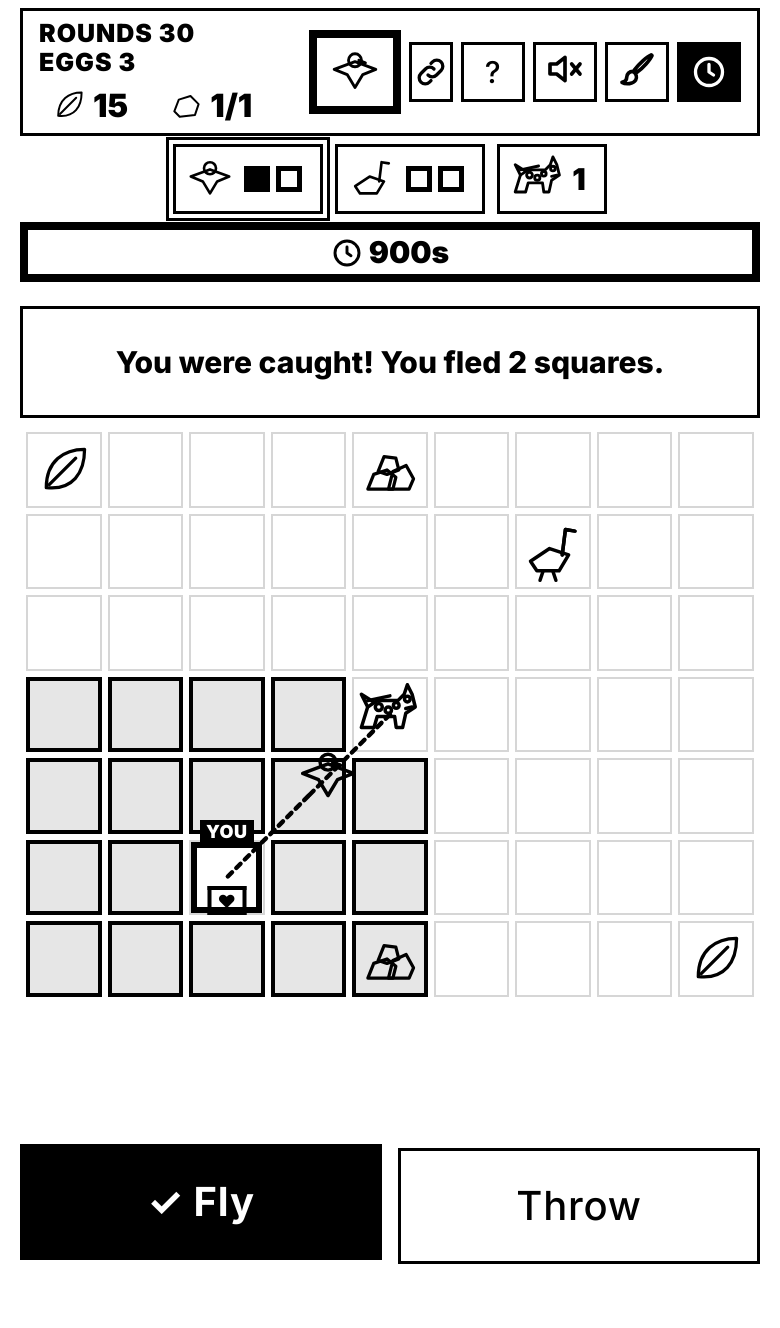
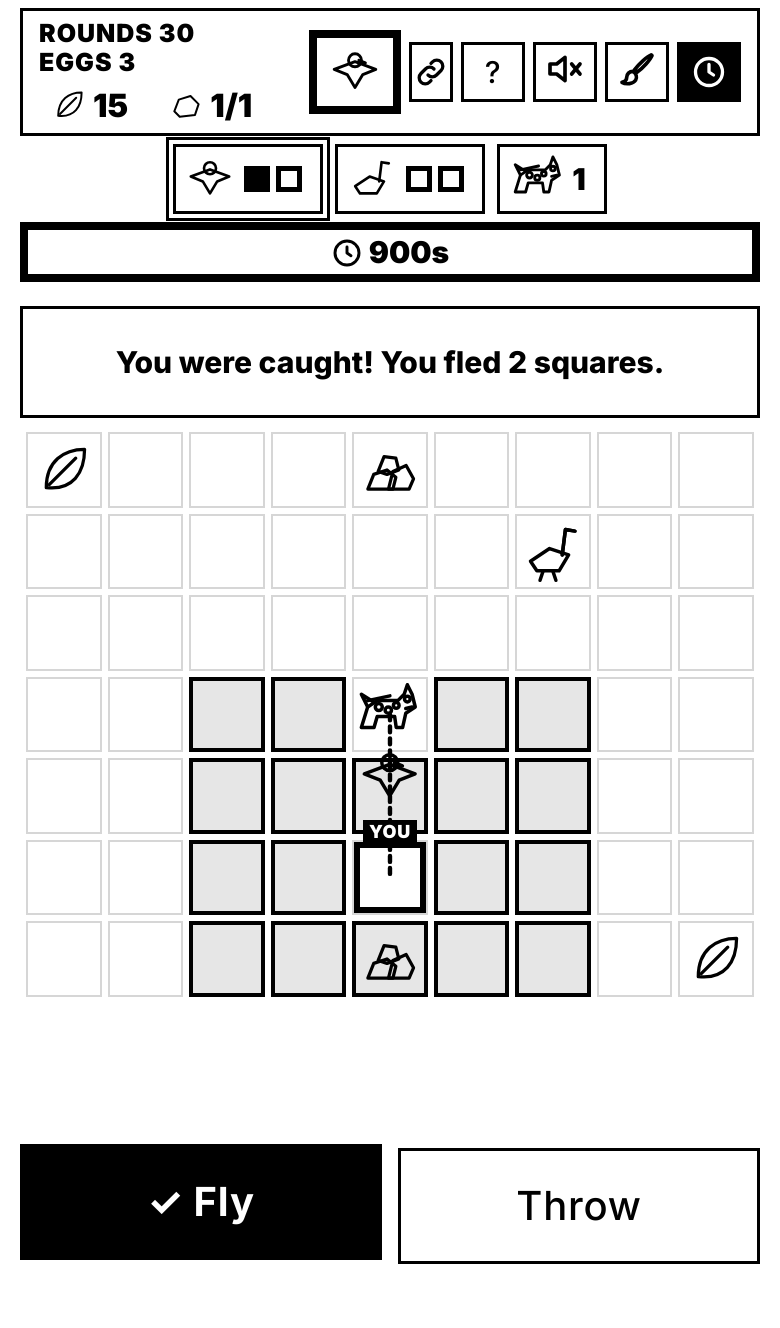
Remove on-square catch markers; catches stay in the header row
Brian 2026-11-08: a caught bird's square gets no board mark. Drop
board hearts, claws and injured outlines; keep header pips/OUT.

Changed region(s): [[0.3692, 0.494, 0.7692, 0.7718], [0.0308, 0.494, 0.3692, 0.7718]]

diff --git a/public/three-ui.js b/public/three-ui.js
@@ -7,7 +7,6 @@ const HYENA='<svg viewBox="0 0 40 40" aria-hidden="true"><path d="M4 30 L8 17 L1
 // The badger, face on: a white face with two dark stripes and angry brows (Brian, 2026-11-08).
 const BADGER='<svg xmlns="http://www.w3.org/2000/svg" viewBox="0 0 40 40" aria-hidden="true"><circle cx="8.5" cy="11" r="4.2" fill="#1a1512" stroke="#1a120c" stroke-width="2.4" stroke-linejoin="round"/><circle cx="31.5" cy="11" r="4.2" fill="#1a1512" stroke="#1a120c" stroke-width="2.4" stroke-linejoin="round"/><path d="M4 17C4 9 11 4 20 4C29 4 36 9 36 17C36 27 27 38 20 38C13 38 4 27 4 17Z" fill="#f4f1ea" stroke="#1a120c" stroke-width="2.4" stroke-linejoin="round"/><path d="M9 8C11 16 14 25 17.5 34L13.5 33C10 26 6.5 18 6 11Z" fill="#1a1512"/><path d="M31 8C29 16 26 25 22.5 34L26.5 33C30 26 33.5 18 34 11Z" fill="#1a1512"/><path d="M8.5 17.5L15.5 20M31.5 17.5L24.5 20" stroke="#1a1512" stroke-width="2.6" stroke-linecap="round"/><circle cx="12.6" cy="21.4" r="2.1" fill="#fff"/><circle cx="27.4" cy="21.4" r="2.1" fill="#fff"/><circle cx="12.9" cy="21.6" r="1" fill="#111"/><circle cx="27.1" cy="21.6" r="1" fill="#111"/><ellipse cx="20" cy="34" rx="3.6" ry="2.6" fill="#111"/></svg>';
 const MOUND='<svg xmlns="http://www.w3.org/2000/svg" viewBox="0 0 40 40" aria-hidden="true"><path d="M2 36 Q8 8 20 6 Q32 8 38 36 Z" fill="#f6e2a8" stroke="#1a1008" stroke-width="3.2" stroke-linejoin="round"/><path d="M10 26 q3-2 6 0M24 22 q3-2 6 0M16 32 q3-2 6 0" stroke="#6b4420" stroke-width="2.2" fill="none" stroke-linecap="round"/><circle cx="17" cy="20" r="2.6" fill="#fff" stroke="#111" stroke-width="1"/><circle cx="23" cy="20" r="2.6" fill="#fff" stroke="#111" stroke-width="1"/><circle cx="17" cy="20.6" r="1.2" fill="#111"/><circle cx="23" cy="20.6" r="1.2" fill="#111"/></svg>';
-const CLAW='<svg viewBox="0 0 40 40" aria-hidden="true"><path d="M10 6 L18 34 M19 4 L25 34 M28 6 L32 32" stroke="#000" stroke-width="8" stroke-linecap="round"/><path d="M10 6 L18 34 M19 4 L25 34 M28 6 L32 32" stroke="#ff2a6d" stroke-width="4.5" stroke-linecap="round"/></svg>';
 const OSTI='<svg viewBox="0 0 40 40"><path d="M6 26 L18 18 L30 22 L24 32 L10 32 Z" fill="#38d6f0" stroke="#000" stroke-width="3" stroke-linejoin="round"/><path d="M26 22 L28 6 L34 7" fill="none" stroke="#000" stroke-width="4" stroke-linecap="round"/></svg>';
 const VULI='<svg viewBox="0 0 40 40"><path d="M4 18 L20 12 L36 18 L26 22 L20 32 L14 22 Z" fill="#2b3245" stroke="#000" stroke-width="3" stroke-linejoin="round"/><circle cx="20" cy="11" r="5" fill="#f3dfae" stroke="#000" stroke-width="2.5"/></svg>';
 const KIND={hyena:{n:'Hyena',art:HYENA,pw:'Pounce',pwTxt:'Pounce: missed? Move 1 more.'},
@@ -159,12 +158,6 @@ function clock(S){let c=$('clock3');if(!c){c=document.createElement('div');c.id=
  cancelAnimationFrame(raf);tick();}
 function cellAt(board,S,p){return p&&p[0]>=0?board.children[p[1]*S.cfg.cols+p[0]]:null;}
 function noteBanner(cls,txt,force){const bn=$('banner');if(!bn)return;if(!force&&bn.textContent&&!bn.classList.contains('hidden'))return;bn.textContent=txt;bn.className=cls;}
-function markHurt(S,board){const birds=S.h3&&S.h3.birds;if(!birds)return;
- const tag=(cell,b)=>{if(!cell||!b||b.out||!b.catches)return;cell.classList.add('injured');const pc=cell.querySelector('.pc');if(pc)pc.classList.add('injured');
-  if(!cell.querySelector('.hurtag')){const l=document.createElement('span');l.className='hurtag';l.textContent='\u2665';cell.appendChild(l);}
-  cell.dataset.tip=(cell.dataset.tip?cell.dataset.tip+' · ':'')+'Caught '+(b.catches===1?'once.':b.catches+' times.');};
- if(S.h3.team){for(const [r,b] of Object.entries(birds)){let cell=board.querySelector('.cell[data-seat="'+r+'"]');if(!cell&&r===S.h3.mySeat)cell=board.querySelector('.cell[data-tags~="me"]');tag(cell,b);}}
- else{const po=board.querySelector('.pc.po'),pv=board.querySelector('.pc.pv');tag(po&&po.closest('.cell'),birds.blue);tag(pv&&pv.closest('.cell'),birds.red);}}
 // "The ostrich is out." once per elimination, for everyone still playing. outSeen remembers which birds were already out (a re-render, or opening
 // the page mid-game, never repeats it; a new game clears it). The line stays up a few seconds and is re-applied if the next state redraws the banner.
 const outSeen={};let outNote=null;
@@ -256,7 +249,6 @@ function after(S,prev,board){badgerLines(S,prev);chips(S);clock(S);kindPick(S);i
   if(fresh){const ac=cellAt(board,S,lc.at),tc=cellAt(board,S,lc.to);
    const word=lc.bird==='red'||lc.bird==='v1'||lc.bird==='v2'?'vulture':'ostrich';
    if(ac&&me==='hunter'&&!ac.querySelector('.pc.po,.pc.pv')){const disc=document.createElement('div');disc.className='pc '+(word==='ostrich'?'po':'pv')+' foundnow';disc.innerHTML=word==='ostrich'?OSTI:VULI;ac.appendChild(disc);}
-   const clawCell=(h.mySeat||me)===lc.bird&&tc?tc:ac;if(clawCell){const m=document.createElement('div');m.className='h3claw';m.innerHTML=CLAW;clawCell.appendChild(m);}
    if(tc)tc.classList.add('h3kb');
    // what the catch means, in words: hurt or out, and who did it (catchtext.js)
    const CT=window.CatchText,seat=h.mySeat||me,by=lc.by||k;
@@ -264,7 +256,7 @@ function after(S,prev,board){badgerLines(S,prev);chips(S);clock(S);kindPick(S);i
    if(seat===lc.bird&&!lc.ko)announce(CT.catchLine(lc,'hunter',by,CT.catchesLeft(h,lc)),90);
    const ch=document.querySelector('#h3bar .bchip.'+lc.bird);ch&&ch.classList.add('hitnow');window.SFX&&SFX.play(me==='hunter'?'win':'warn');}}
  outBanner(S,prev);
- markHurt(S,board); warnNear(S,board);
+ warnNear(S,board);
  // waiting panel text: which seats are still open
  if(!S.joined){const w=$('wait');const open=Object.entries(h.seats).filter(([,v])=>v==='open').map(([r])=>SN[r]);if(w)w.firstElementChild.nextElementSibling.textContent=`Waiting for: ${open.join(', ')}. Send them this link:`;}}
 function kindPick(S){let k=$('kindPick');if(!S.h3.needKind){k&&k.classList.add('hidden');return;}

diff --git a/e2e-hunter-phone.js b/e2e-hunter-phone.js
@@ -169,14 +169,25 @@ const phone = { viewport: { width: 390, height: 844 } };
   await guest.waitForFunction(() => UI._S().h3.birds.blue.catches === 1, null, { timeout: 8000 });
   const hurt = await guest.evaluate(() => {
     const pc = document.querySelector('.pc.po');
-    const cs = pc ? getComputedStyle(pc) : null;
-    return { injured: !!(pc && pc.classList.contains('injured')), outline: cs && cs.outlineStyle, hurt: !!document.querySelector('.hurtag'), out: !!document.querySelector('.bchip.blue.out') };
+    const chip = document.querySelector('#h3bar .bchip.blue');
+    return {
+      injured: !!(pc && pc.classList.contains('injured')),
+      hurt: !!document.querySelector('.hurtag'),
+      claw: !!document.querySelector('.h3claw'),
+      cellInjured: !!document.querySelector('#board .cell.injured'),
+      pips: chip ? chip.querySelectorAll('.pip.on').length : 0,
+      chipInjured: !!(chip && chip.classList.contains('injured')),
+      out: !!document.querySelector('.bchip.blue.out')
+    };
   });
-  assert.equal(hurt.injured, true, 'first catch marks the ostrich sprite');
-  assert.equal(hurt.outline, 'solid');
-  assert.equal(hurt.hurt, true);
+  assert.equal(hurt.injured, false, 'caught bird square has no injured mark');
+  assert.equal(hurt.hurt, false, 'caught bird square has no heart tag');
+  assert.equal(hurt.claw, false, 'caught bird square has no claw mark');
+  assert.equal(hurt.cellInjured, false, 'no injured cell on the board');
+  assert.equal(hurt.pips, 1, 'header chip shows one filled catch pip');
+  assert.equal(hurt.chipInjured, true, 'header chip reflects the catch');
   assert.equal(hurt.out, false, 'first catch is not a knockout');
-  await guest.screenshot({ path: OUT + '/ostrich-hurt-sprite.png' });
+  await guest.screenshot({ path: OUT + '/ostrich-after-catch-header.png' });
   assert.equal(errs.length, 0, errs.join('\n'));
   await browser.close();
   server.close();

diff --git a/tools/shots-real-play.js b/tools/shots-real-play.js
@@ -162,6 +162,20 @@ const near = (a, c) => Math.max(Math.abs(a[0] - c[0]), Math.abs(a[1] - c[1]));
       if(await Vp.locator('#announce').textContent()!==`You were caught! You fled ${n} square${n===1?'':'s'}.`)throw new Error('caught bird notice');
       if(await H.locator('#announce').textContent()!=='The hyena caught the vulture!')throw new Error('hunter notice');
       await shot(Vp,'catch-scramble-1-start');bc();await sleep(300);if(!await Vp.locator('.push-actor').count())throw new Error('duplicate packet interrupted one-second motion');await shot(Vp,'catch-scramble-2-mid');await sleep(650);await shot(Vp,'catch-scramble-3-after');
+      await quiet(Vp); await quiet(H);
+      for (const [page, who] of [[Vp, 'bird'], [H, 'hunter']]) {
+        const marks = await page.evaluate(() => ({
+          hurtag: !!document.querySelector('.hurtag'),
+          claw: !!document.querySelector('.h3claw'),
+          cellInjured: !!document.querySelector('#board .cell.injured'),
+          pcInjured: !!document.querySelector('#board .pc.injured'),
+          pips: document.querySelectorAll('#h3bar .bchip .pip.on').length
+        }));
+        if (marks.hurtag || marks.claw || marks.cellInjured || marks.pcInjured) throw new Error(who + ' phone still shows an on-square catch mark');
+        if (marks.pips < 1) throw new Error(who + ' phone header must show a filled catch pip');
+      }
+      await shot(Vp, 'catch-bird-after-no-square-mark');
+      await shot(H, 'catch-hunter-after-no-square-mark');
       await Vp.emulateMedia({reducedMotion:'reduce'});
       const prev=await Vp.evaluate(()=>UI._S());g.three.birds.red.catches=0;g.turn='hunter';g.three.pounce=false;g.three.h=[3,3];g.vulture=[4,3];bc();await sleep(100);
       act('hunter',{a:'hmove',p:[4,3]});await Vp.waitForSelector('.push-motion',{timeout:3000});

diff --git a/public/egg-layout.css b/public/egg-layout.css
@@ -8,6 +8,6 @@ html[data-theme] :is(#board,.mini) .cell:has(.cm-egg)>.pc:not(#_a):not(#_b):not(
 /* One- and two-digit countdowns sit beside the egg, with a real 4px inset. */
 html[data-theme] :is(#board,.mini) .cell .wnum:not(#_a):not(#_b):not(#_c){position:absolute!important;inset:auto!important;left:auto!important;right:4px!important;top:4px!important;bottom:auto!important;width:auto!important;height:11px!important;max-width:calc(50% - 4px)!important;transform:none!important;margin:0!important;padding:0!important;border:0!important;line-height:11px!important;font-size:10px!important;text-align:right!important;z-index:48!important}
 /* Reduced motion: retain the static path / destination cue, never the legacy bounce or claw burst. */
-@media (prefers-reduced-motion:reduce){html[data-theme] .cell.h3kb,html[data-theme] .cell.h3kb::after,html[data-theme] .bchip.hitnow{animation:none!important;transform:none!important}html[data-theme] .h3claw{display:none!important}}
+@media (prefers-reduced-motion:reduce){html[data-theme] .cell.h3kb,html[data-theme] .cell.h3kb::after,html[data-theme] .bchip.hitnow{animation:none!important;transform:none!important}}
 /* The moving copy is the only animal shown during a push, including sprite themes. */
 body:has(.push-motion[data-sprite="o"][data-moving="1"]) #fx .spr-o,body:has(.push-motion[data-sprite="v"][data-moving="1"]) #fx .spr-v{visibility:hidden!important}

diff --git a/public/three.css b/public/three.css
@@ -53,10 +53,9 @@
 @keyframes annIn{from{opacity:0;transform:translateX(-50%) scale(.85)}to{opacity:1;transform:translateX(-50%) scale(1)}}
 @keyframes h3popLong{0%{transform:translate(-50%,-50%) scale(.4)}6%{transform:translate(-50%,-50%) scale(1.06)}10%{transform:translate(-50%,-50%) scale(1)}85%{opacity:1}100%{opacity:0}}
 @keyframes h3pop{0%{transform:translate(-50%,-50%) scale(.4)}15%{transform:translate(-50%,-50%) scale(1.1)}25%{transform:translate(-50%,-50%) scale(1)}80%{opacity:1}100%{opacity:0}}
-.h3claw{position:absolute;inset:0;z-index:7;pointer-events:none;animation:h3claw 1.6s ease-out forwards}.h3claw svg{width:100%;height:100%}
 .pc.foundnow{z-index:5;animation:moundin .4s ease}
 .pc.ambushsee{z-index:5;animation:moundin .4s ease}
-@keyframes h3claw{0%{transform:scale(1.6);opacity:0}20%{transform:scale(1);opacity:1}85%{opacity:1}100%{opacity:0}}
+20%{transform:scale(1);opacity:1}85%{opacity:1}100%{opacity:0}}
 .cell.h3kb{animation:h3kb .7s ease-out 2}@keyframes h3kb{30%{box-shadow:inset 0 0 0 6px #ff2a6d;transform:scale(1.08)}}
 body.hunter #turnTag{background:#c46a12}body.hunter .cell{background:#6b4a1f}body.hunter .cell.legal{outline-color:#ffd21f}
 /* 4/5 players */

diff --git a/public/vocab.css b/public/vocab.css
@@ -106,8 +106,6 @@ html[data-theme] #board .cell.zone.legal{box-shadow:inset 0 0 0 3px #ffe14d,inse
   text-shadow:0 0 2px #fff,0 0 2px #fff!important;pointer-events:none;letter-spacing:0}
 #board .wnum.low{color:#0b3b66!important}
 #board .pc,html[data-theme] #board .pc{position:absolute;left:8%;top:8%;width:84%;height:84%;background:none!important;border:0!important;box-shadow:none!important;z-index:4;pointer-events:none}
-#board .pc.injured,html[data-theme] #board .pc.injured{outline:3px solid #ff2a6d!important;outline-offset:-3px}
-#board .pc.injured::after,html[data-theme] #board .pc.injured::after{content:'';position:absolute;left:10%;right:10%;top:46%;height:5px;background:#ff2a6d;border:1px solid #3a0010;transform:rotate(-16deg);border-radius:2px;pointer-events:none}
 #board .pc svg{width:100%;height:100%}
 #board .cell>.carry{position:absolute;right:2%;bottom:2%;width:36%;height:36%;z-index:6;pointer-events:none}
 /* legal = the yellow glow from squares.css; throw targets glow red-orange instead */

diff --git a/public/ring.css b/public/ring.css
@@ -18,9 +18,6 @@ body.three #hud #timerToggle.on{background:#ffd21f;color:#111}
 #banner.sensekey,#banner.pounce{font-size:12px!important;line-height:32px!important;padding:0 8px!important;white-space:nowrap;overflow:hidden;text-overflow:clip}
 #banner.sensekey,html[data-theme] #banner.sensekey{background:#1d3557!important;color:#fff!important}
 #banner.pounce,html[data-theme] #banner.pounce{background:#ffb000!important;color:#111!important}
-.cell.injured .pc{box-shadow:0 0 0 3px #ff2a6d}
-.hurtag{position:absolute;bottom:-1px;left:50%;transform:translateX(-50%);z-index:6;font:900 9px/1.1 system-ui,sans-serif;letter-spacing:.4px;
- background:#ff2a6d;color:#fff;border:2px solid #111;border-radius:4px;padding:1px 3px;pointer-events:none;white-space:nowrap}
 .bchip.injured{box-shadow:inset 0 0 0 3px #ff2a6d}
 .bchip.out{background:#ffd0d4!important;filter:none;opacity:1}
 .bchip.out .ko{font-size:11px}

diff --git a/docs/reviews/egg-layout-shots/README.md b/docs/reviews/egg-layout-shots/README.md
@@ -14,7 +14,7 @@ Based on `origin/main` at `559a847`, on the new `egg-fixes` branch. Nothing in t
 ## Behavior and privacy fixes
 
 - Hunter server packets previously reused vulture `spotted` egg marks, including shared 5-player marks. Hunters now receive only public hit/stone wreckage, never found-egg coordinates or egg arrays during play; client rendering is defensive too. Actual legal-find tests cover 3p, Hunters and 5p.
-- B&W’s transparent reset hid `.pip.on`. A catch now visibly fills its marker; knockout has a high-contrast OUT state. Tests cover all viewers in all three multiplayer modes and assert a screenshot-visible change, not only a particular marker design.
+- B&W’s transparent reset hid `.pip.on`. A catch now visibly fills the header chip pips above the board; knockout has a high-contrast OUT state. A caught bird’s square gets no board mark (no heart, claw, or injured outline). Catches show only as filled pips / lost hearts in the animal row. Tests cover all viewers in all three multiplayer modes and assert a screenshot-visible header change.
 - Pushes use an approximately one-second, square-by-square motion with trails, regardless of distance. Reduced motion uses static trails. Only viewer-permitted squares are sent or drawn. Brian’s updated rule: the kicking ostrich sees the full actual kick slide and landing beyond normal sight, including an early stop. This event-only exception does not grant ongoing sight or reveal the blocker. The kicked hunter sees its own whole slide, with no hidden bird square revealed; other watchers keep normal sight filtering. Never draw a hidden scramble destination; hunters never get the caught bird’s scramble animation. Duplicate packets preserve the animation clock. FX sprite themes use the same separated animal box.
 - Approved catch notices use the real distance and singular/plural: “You were caught! You fled 2 squares.” Other viewers see “The <hunter> caught the <bird>!” without the destination.
 - Long facts wrap cleanly with padding and an opaque backing at iPhone 13 width. A shared queue holds one status for about a second, prioritizing personal events; no sniff or fact paints over it.
@@ -27,7 +27,7 @@ Based on `origin/main` at `559a847`, on the new `egg-fixes` branch. Nothing in t
 
 - [Kick on both phones: before / start / mid / after](kick-both-phones.png) · [ostrich strip](kick-ostrich-strip.png) · [hyena strip](kick-hyena-strip.png)
 - [Reduced-motion kick — ostrich](kick-ostrich-reduced.png) · [hyena](kick-hyena-reduced.png)
-- [Contact sheet — 58 phone screenshots (36 prior review states + 22 updated full/early-stop kick views)](00-contact-sheet.png)
+- [Contact sheet — 67 phone screenshots](00-contact-sheet.png)
 - [Real YOU + egg + bird + 14, plus egg states](eggs-closeup.png)
 - [Enlarged real square with YOU + egg + bird + 14](you-egg-bird-14-closeup.png)
 - [All egg states at real size, 1/14 countdowns, plain/lit squares](eggs-real-size.png) — WebKit at 3× phone pixel density; contact-sheet/combined-sheet copies are scaled.
@@ -38,6 +38,7 @@ Based on `origin/main` at `559a847`, on the new `egg-fixes` branch. Nothing in t
 Full-screen shots use WebKit, a 390×664 CSS-pixel phone, 2× pixel density. The icon fixture uses real game classes, paths and stylesheet files at 38px square size; the separate fixture test verifies geometry in all 14 themes.
 
 - Catch scramble (caught bird): [before](catch-scramble-0-before.png), [start](catch-scramble-1-start.png), [mid](catch-scramble-2-mid.png), [after](catch-scramble-3-after.png), [reduced motion](catch-scramble-reduced-motion.png).
+- After a catch, no square mark: [bird phone](catch-bird-after-no-square-mark.png), [hunter phone](catch-hunter-after-no-square-mark.png).
 - [Long wrapping fact](status-long-fact.png).
 
 ## Reproduce

diff --git a/docs/reviews/egg-layout-shots/TEST-RESULTS.md b/docs/reviews/egg-layout-shots/TEST-RESULTS.md
@@ -1,3 +1,28 @@
+# Test results — remove on-square catch markers (2026-11-08)
+
+## Full `npm test`
+- **54 of 55** suites passed on the first full run.
+- **PASS** includes `e2e-catch-markers.js` (header pips still fill) and `e2e-hunter-phone.js` (asserts no on-square hurtag/claw/injured; header pip + chip injured).
+- **FAIL** `e2e-consistency.js` (0s): `EADDRINUSE` on port 3992 from a leftover process. Not a product failure.
+
+## Isolated rerun
+- Freed port 3992, set `PLAYWRIGHT_BROWSERS_PATH` to `node_modules/.pw-browsers`.
+- `e2e-consistency.js`: **PASS** — 13 theme/mode walks, **366 checks**, no browser errors (~667s). Log: `isolated-reruns.txt`.
+
+## Real-play captures
+- `node tools/shots-real-play.js docs/reviews/egg-layout-shots catch`
+- New: `catch-bird-after-no-square-mark.png`, `catch-hunter-after-no-square-mark.png`
+- Viewed both: bird phone shows one filled pip on the vulture chip and a clean board square (YOU only); hunter phone shows the same filled pip and no bird/claw/heart on the board (scramble destination correctly hidden).
+- Contact sheet rebuilt: 67 screens → `00-contact-sheet.png`.
+
+## Change under test
+- Removed `markHurt` (board `.injured` / `.hurtag` hearts), board claw burst (`h3claw`), and board injured CSS.
+- Header chip pips / `.bchip.injured` / OUT unchanged.
+- Docs: RULEBOOK-v2 4.6, egg-layout README, OPEN-ITEMS, DECISIONS/STATE dated lines, audit supersession notes.
+
+
+---
+
 # Current correction: kicker sees the full actual slide
 
 Brian's 2026-11-08 decision reverses kick-landing filtering for the kicker only. Full travel and stopped-early kicks animate every actual square in about one second; non-kickers retain normal sight. Explicit server event trails do not expose unrelated obstruction positions or grant ongoing hunter sight. Knocked-out full god views remain unchanged.

diff --git a/docs/project/DECISIONS-2026-11-08.md b/docs/project/DECISIONS-2026-11-08.md
@@ -58,3 +58,4 @@
 - 2026-11-07 night (Brian): moves are shown as lit (highlighted) squares, as originally; "egg may be here" is a small egg outline in the corner of each square; only the vulture's latest sniff shows (no sniff memory); the computer vulture also uses only its latest sniff (ai.js keeps the last 4 today), so it plays with the same information as a person; rely on a short picture tutorial to teach. Part 1 (branch ux-part1-next-step, unmerged) to be reworked to this, its two failing tests fixed, then shown to Brian before merge. Mockup: reviews-2026-11-06/move-style-playground.html.
 - 2026-11-07 late (Brian, after the Pounce screenshot): one look per meaning for every mark on the board. "May be here" is the small icon in the corner of the square with a dashed outline and no fill. "Is here" is the same small icon in the same corner, filled white. Yellow means only "you can move here" (lit squares). During a Pounce, only the squares both of the hyena's senses agree on get a bird, all the same look (the second, white-duck tier is dropped: two kinds of "maybe" could not be read at a glance). Screens shown to Brian must come from real play, in the order a player meets them, never a contrived state or a description of a screen he hasn't seen.
 - 2026-11-08 (Brian): the hunter's "a bird may be here" mark is a plain-line side-view bird (bird F), not dashed: dashes broke a small bird shape into a jumble, and a hunter only ever sees "may be here" birds, so nothing filled can be mistaken for it. A badger's dig-in spot is a small dirt pile, filled white. Claws for hunters were considered and set aside for now.
+- 2026-11-08 (Brian): a caught bird's square gets no mark on the board. Catches show only as lost hearts / filled pips in the animal chip row above the board. Hearts and claw marks never appear inside board squares.

diff --git a/docs/reviews/AUDIT-busy-screen-2026-11-08.md b/docs/reviews/AUDIT-busy-screen-2026-11-08.md
@@ -144,3 +144,6 @@ At the start, show the mode line by itself for about 2 seconds, then remove it s
 For a catch, kick, stone, meeting or burst: one sentence, about a second, naming both animals and saying "you" on the phone it happened to. Then, if this phone may see both squares, a short highlight between them. If it may not see a square, leave that square off and do not say where it is. The planned cut-scenes (1.5 to 2 seconds, tap to skip) fit the catch, the knock-out, the smash, the burst and the kicked-back stone. Ordinary steps stay about 1 second.
 
 Do not play a second pop ("Bird near", "Hyena near") in the same bar during that second. One sound, not a stack. The caught bird should get the warn sound with the "you were caught" line, and nothing else until that line has been up long enough to read.
+
+## Update 2026-11-08
+Brian decided: a caught bird's square gets no mark on the board. Catches show only as lost hearts in the animal chip row above the board. Earlier notes in this audit that put claws or a pink box on a square are superseded.

diff --git a/docs/OPEN-ITEMS.md b/docs/OPEN-ITEMS.md
@@ -16,7 +16,7 @@ The animal is called the badger.
 - 2026-11-08: Push slide square by square with trail, about 1 second total; respect reduced motion and hide scramble destinations.
 - 2026-11-08: Approved notices: “You were caught! You fled 2 squares.” / “The hyena caught the vulture!” with actual animals and no scramble location.
 - 2026-11-08: Who-sees-what audit across every mode and role.
-- 2026-11-08: Kick cut-scene mockup; catch-marker mockups.
+- 2026-11-08: Kick cut-scene mockup. Catch-marker mockups decided: no on-square mark; header hearts only (in PR #23).
 - 2026-11-08: Corner mockups: eggs top-left, rocks top-right, food bottom-right, number bottom-left.
 - 2026-11-08: Egg countdown mockups: inside egg, beside egg, or no-number visuals.
 - 2026-11-08: Timer-bar mockups: filling or shrinking.
